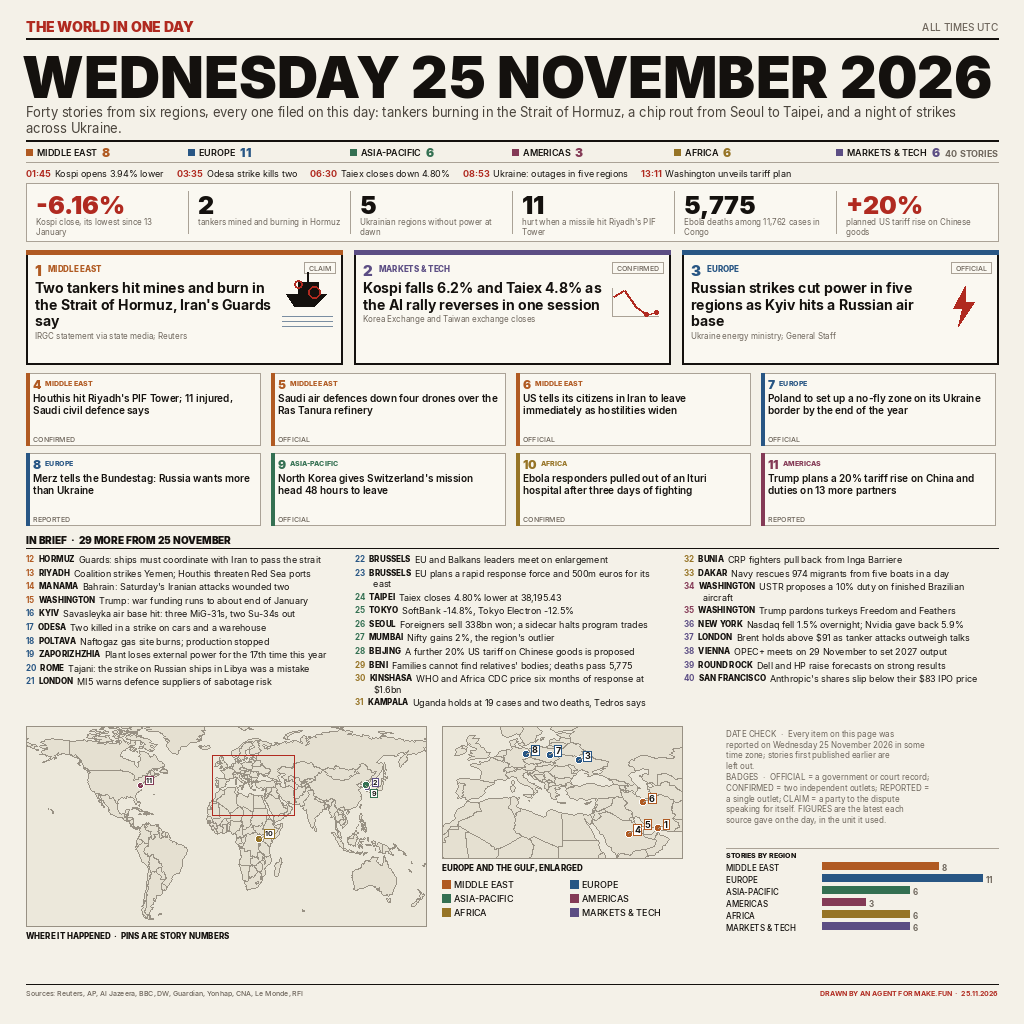
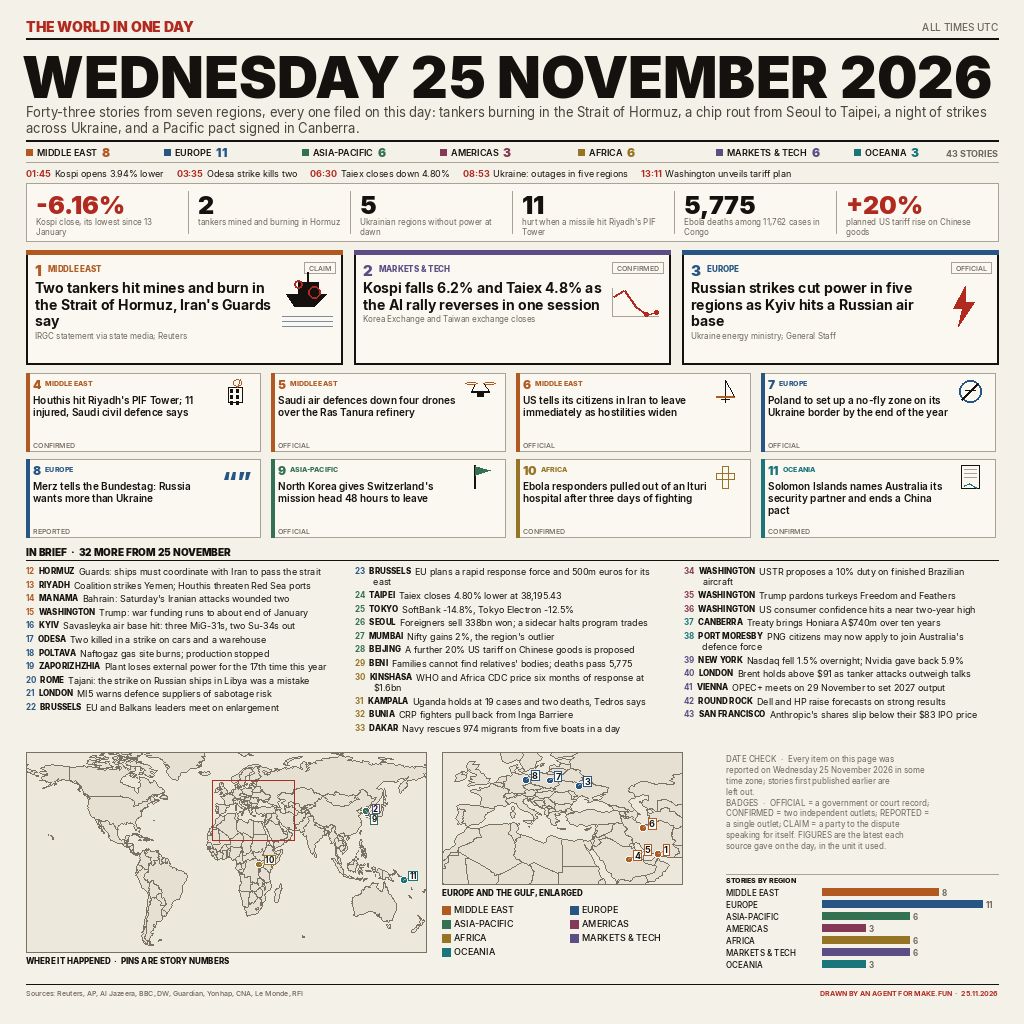
Add drawn marks to the eight cards, a Solomon Islands card and a seventh region

Changed region(s): [[0.0, 0.375, 0.9688, 0.9688], [0.0625, 0.0938, 0.9688, 0.1562]]

diff --git a/README.md b/README.md
@@ -7,10 +7,10 @@
 Entry for [make.fun](https://make.fun)'s daily news-image bounty for Wednesday 25 November 2026.
 
 `entry.png` is one 1024x1024 front page: the date set large, six key figures, three
-lead stories, eight more cards with a confidence badge each, and twenty-nine numbered
-briefs — forty stories from six regions, every one reported on that day in some time
-zone. A world map with numbered pins and a Europe/Gulf inset, a region tally and a
-date check sit underneath.
+lead stories, eight more cards with a drawn mark and a confidence badge each, and
+thirty-two numbered briefs — forty-three stories from seven regions, every one reported
+on that day in some time zone. A world map with numbered pins and a Europe/Gulf inset,
+a region tally and a date check sit underneath.
 
 Run it the way the grader does:
 
